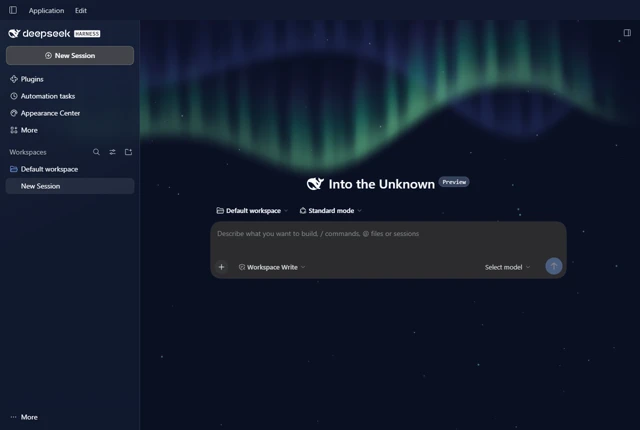
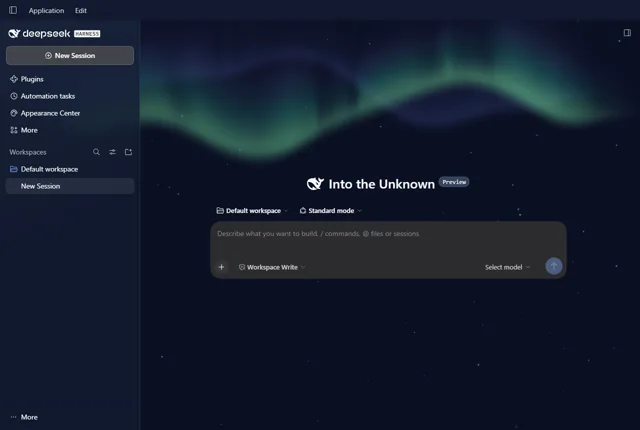
Vary Aurora V2 folds and soften the light field

Changed region(s): [[0.2188, 0.0605, 0.9375, 0.4233], [0.4688, 0.0605, 0.5938, 0.1209], [0.4062, 0.0907, 0.4375, 0.1209]]

diff --git a/src/client/effects/aurora-curtain.ts b/src/client/effects/aurora-curtain.ts
@@ -5,11 +5,24 @@ const smooth = (value: number) => {
   const t = Math.max(0, Math.min(1, value))
   return t * t * (3 - 2 * t)
 }
+
+function cellLight(cell: number, seed: number) {
+  let bits = Math.imul(cell ^ seed, 0x27987989)
+  bits = Math.imul(bits ^ (bits >>> 15), 0x85ebca6b)
+  return ((bits ^ (bits >>> 13)) >>> 0) / 0xffffffff
+}
+
+function lightVariation(position: number, seed: number) {
+  const cell = Math.floor(position)
+  const start = cellLight(cell, seed)
+  return start + (cellLight(cell + 1, seed) - start) * smooth(position - cell)
+}
+
 type Color = readonly [number, number, number]
 
 const sheets = [
-  { base: 0.40, height: 0.37, offset: 2.8, foot: [100, 129, 255], middle: [75, 100, 222], top: [146, 77, 234] },
-  { base: 0.58, height: 0.44, offset: 0, foot: [130, 255, 178], middle: [41, 219, 167], top: [136, 100, 231] },
+  { base: 0.43, height: 0.35, offset: 2.8, foot: [117, 139, 250], middle: [91, 117, 222], top: [166, 103, 231] },
+  { base: 0.54, height: 0.44, offset: 0, foot: [129, 255, 174], middle: [56, 208, 178], top: [141, 116, 232] },
   { base: 0.47, height: 0.29, offset: 1.4, foot: [92, 198, 233], middle: [56, 135, 206], top: [122, 89, 218] },
 ] as const satisfies ReadonlyArray<{ base: number; height: number; offset: number; foot: Color; middle: Color; top: Color }>
 
@@ -56,26 +69,34 @@ export function createAuroraCurtain(canvas: HTMLCanvasElement, params: EffectPar
       const gradient = gradients[layer]
       const weight = layer === 1 ? 0.88 : (0.2 + params.depth * 0.65) * (layer === 0 ? 0.62 : 0.37)
       const span = 0.59 + params.curtainWidth * 0.45
-      const slide = 0.024 * Math.sin(phase + offset)
+      const seed = 511 + layer * 861
+      const drift = Math.sin(phase + offset)
+      const slide = 0.031 * drift
+      const streakOffset = Math.sin(2 * phase + offset) * 0.9
       for (let x = 0; x < width; x++) {
         const u = (x / (width - 1) - 0.5 - slide) / span + 0.5
         const envelope = smooth(u / 0.13) * smooth((1 - u) / 0.17)
         if (envelope === 0) continue
         const s = u * cycle
-        const fold = Math.sin(23 * s - phase * 3 + 1.2 * Math.sin(3 * s + offset))
-          + 0.48 * Math.sin(38.4 * s + phase * 2 + offset)
-          + 0.31 * Math.sin(11.6 * s - phase + offset)
-        const highFold = Math.sin(23 * s - phase * 3 + 0.9 + 1.2 * Math.sin(3 * s + offset))
-          + 0.48 * Math.sin(38.4 * s + phase * 2 + offset + 1.7)
-          + 0.31 * Math.sin(11.6 * s - phase + offset + 0.6)
-        const crest = smooth(0.47 + 0.37 * fold)
-        const innerCrest = smooth(0.47 + 0.37 * highFold)
-        const arcs = Math.sin(s - phase + offset) * 0.15 + Math.sin(2 * s + phase + offset + 0.65) * 0.085
-        const bottom = base + envelope * (arcs + 0.033 * params.foldAmplitude * Math.sin(3 * s - 2 * phase))
-        const focal = (u - 0.63 - 0.06 * Math.sin(phase + offset)) / 0.22
-        const bloom = 0.60 + 0.34 * Math.exp(-focal * focal) + 0.11 * Math.sin(2 * s + phase + offset)
-        const riseAtColumn = rise * (0.48 + 0.52 * envelope)
-        const above = riseAtColumn * (0.62 + 0.24 * bloom + 0.36 * crest * params.foldAmplitude)
+        // Warp the sampling positions at different scales so broad folds gather
+        // into irregular groups, with finer wisps drifting inside them.
+        const warped = u + 0.073 * Math.sin(1.55 * s + phase + offset)
+          + 0.017 * Math.sin(4.4 * s - phase + offset)
+        const groups = lightVariation(7.2 * warped - 0.47 * drift, seed)
+        const pockets = lightVariation(16.6 * warped + 0.7 * drift, seed + 11)
+        const streaks = 42 * warped - streakOffset
+        const folds = lightVariation(streaks, seed + 37)
+        const topFolds = lightVariation(streaks + 0.3 + 0.82 * pockets, seed + 37)
+        const crest = smooth(0.73 * pockets + 0.53 * folds - 0.10)
+        const innerCrest = smooth(0.62 * pockets + 0.61 * topFolds - 0.12)
+        const arcs = 0.115 * Math.sin(1.13 * s - phase + offset)
+          + 0.064 * Math.sin(2.34 * s + phase + offset + 0.65)
+          + 0.028 * Math.sin(3.8 * s - phase + 2 * offset)
+        const bottom = base + envelope * (arcs + 0.055 * params.foldAmplitude * (groups - 0.5))
+        const focal = (u - 0.65 - 0.085 * drift) / 0.22
+        const bloom = 0.43 + 0.31 * Math.exp(-focal * focal) + 0.33 * groups
+        const riseAtColumn = rise * (0.45 + 0.55 * envelope)
+        const above = riseAtColumn * (0.50 + 0.33 * groups + 0.4 * crest * params.foldAmplitude)
         const below = riseAtColumn * 0.63
         const emission = envelope * weight * bloom
         const first = Math.max(0, Math.ceil((bottom - above * (gradientSpan + gradientStart)) * height))
@@ -91,7 +112,7 @@ export function createAuroraCurtain(canvas: HTMLCanvasElement, params: EffectPar
           // Near the foot, the sheet stays continuous. The folds become
           // more pronounced as the glow thins upward.
           const definition = smooth((distance + 0.05) / 0.46) * params.foldAmplitude
-          const light = 0.72 + (foldLight - 0.5) * (0.17 + 1.13 * definition)
+          const light = 0.75 + (foldLight - 0.5) * (0.14 + 1.20 * definition)
           const alpha = Math.min(1, gradient[sample + 3] / 255 * emission * light)
           if (alpha <= 0.002) continue
           const index = (y * width + x) * 4
